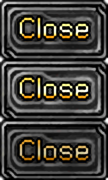
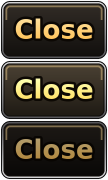
feat(ui-hd): in-game Texture quality option (Auto/Ultra/High/Standard), redrawn Close button

diff --git a/src/source/UI/NewUI/Options/NewUIOptionWindow.cpp b/src/source/UI/NewUI/Options/NewUIOptionWindow.cpp
@@ -7,6 +7,7 @@
 #include "UI/NewUI/NewUISystem.h"
 #include "Render/Textures/ZzzTexture.h"
 #include "Render/Renderer/GraphicsQuality.h"
+#include "Render/Textures/UiHdTextures.h"
 #include "Audio/DSPlaySound.h"
 #include "Data/GameConfig/GameConfig.h"
 #include "Data/GameConfig/GameConfigConstants.h"
@@ -127,6 +128,28 @@ static const wchar_t* const* GetLanguageLabels()
 // family value ([UI] Font); empty = the platform default (so the look is
 // unchanged). The curated entries are bundled in the client's ./fonts directory
 // (see Core/Platform/GdiText.cpp), so they resolve even without a system install.
+// Texture quality combo (config.ini [UI] HdTextures): which HD replacement set to load. The order is the order shown.
+static const struct { Render::UiHdTextures::Setting value; const wchar_t* label; } s_TextureQualityOptions[] = {
+    { Render::UiHdTextures::Setting::Auto,   L"Auto" },
+    { Render::UiHdTextures::Setting::Scale4, L"Ultra" },
+    { Render::UiHdTextures::Setting::Scale2, L"High" },
+    { Render::UiHdTextures::Setting::Off,    L"Standard" },
+};
+static const int s_NumTextureQualityOptions = sizeof(s_TextureQualityOptions) / sizeof(s_TextureQualityOptions[0]);
+
+static const wchar_t* const* GetTextureQualityLabels()
+{
+    static const wchar_t* labels[s_NumTextureQualityOptions] = {};
+    static bool initialized = false;
+    if (!initialized)
+    {
+        for (int i = 0; i < s_NumTextureQualityOptions; i++)
+            labels[i] = s_TextureQualityOptions[i].label;
+        initialized = true;
+    }
+    return labels;
+}
+
 namespace
 {
 struct FontOption
@@ -309,6 +332,9 @@ namespace
     constexpr int ANISO_LABEL_Y_LOCAL = 248;
     constexpr int ANISO_COMBO_Y_LOCAL = 261;
     constexpr int ANISO_COMBO_X_LOCAL = RENDER_ROW_COMBO_X_LOCAL;
+    constexpr int TEXQUALITY_LABEL_Y_LOCAL = 299;
+    constexpr int TEXQUALITY_COMBO_Y_LOCAL = 312;
+    constexpr int TEXQUALITY_COMBO_X_LOCAL = RENDER_ROW_COMBO_X_LOCAL;
 
     constexpr int WINDOW_WIDTH = 190;
     constexpr int WINDOW_HEIGHT = 419;
@@ -352,6 +378,7 @@ SEASON3B::CNewUIOptionWindow::CNewUIOptionWindow()
     m_iAntiAliasingIndex = FindCurrentAntiAliasingIndex();
     m_bTextureMipmaps = GameConfig::GetInstance().GetTextureMipmapsEnabled();
     m_iAnisotropyIndex = FindCurrentAnisotropyIndex();
+    m_iTextureQualityIndex = FindCurrentTextureQualityIndex();
     m_iCurrentPage = PAGE_GENERAL;
 }
 
@@ -376,6 +403,7 @@ bool SEASON3B::CNewUIOptionWindow::Create(CNewUIManager* pNewUIMng, int x, int y
     InitMaxFpsCombo();
     InitAntiAliasingCombo();
     InitAnisotropyCombo();
+    InitTextureQualityCombo();
     Show(false);
     return true;
 }
@@ -485,6 +513,20 @@ void SEASON3B::CNewUIOptionWindow::InitAnisotropyCombo()
         RENDER_ROW_COMBO_MAX_VISIBLE);
 }
 
+void SEASON3B::CNewUIOptionWindow::InitTextureQualityCombo()
+{
+    m_iTextureQualityIndex = FindCurrentTextureQualityIndex();
+    m_TextureQualityCombo.Setup(
+        m_Pos.x + TEXQUALITY_COMBO_X_LOCAL,
+        m_Pos.y + TEXQUALITY_COMBO_Y_LOCAL,
+        RENDER_ROW_COMBO_WIDTH,
+        RENDER_ROW_COMBO_HEIGHT,
+        GetTextureQualityLabels(),
+        s_NumTextureQualityOptions,
+        m_iTextureQualityIndex,
+        RENDER_ROW_COMBO_MAX_VISIBLE);
+}
+
 void SEASON3B::CNewUIOptionWindow::SetButtonInfo()
 {
     m_BtnClose.ChangeTextBackColor(RGBA(255, 255, 255, 0));
@@ -516,6 +558,7 @@ void SEASON3B::CNewUIOptionWindow::SetPos(int x, int y)
     m_MaxFpsCombo.SetPos(m_Pos.x + MAXFPS_COMBO_X_LOCAL, m_Pos.y + MAXFPS_COMBO_Y_LOCAL);
     m_AntiAliasingCombo.SetPos(m_Pos.x + AA_COMBO_X_LOCAL, m_Pos.y + AA_COMBO_Y_LOCAL);
     m_AnisotropyCombo.SetPos(m_Pos.x + ANISO_COMBO_X_LOCAL, m_Pos.y + ANISO_COMBO_Y_LOCAL);
+    m_TextureQualityCombo.SetPos(m_Pos.x + TEXQUALITY_COMBO_X_LOCAL, m_Pos.y + TEXQUALITY_COMBO_Y_LOCAL);
 }
 
 bool SEASON3B::CNewUIOptionWindow::UpdateMouseEvent()
@@ -554,6 +597,7 @@ bool SEASON3B::CNewUIOptionWindow::UpdateMouseEvent()
         { PAGE_GRAPHICS, &m_MaxFpsCombo,       &m_iMaxFpsIndex,       &CNewUIOptionWindow::ApplyMaxFps        },
         { PAGE_GRAPHICS, &m_AntiAliasingCombo, &m_iAntiAliasingIndex, &CNewUIOptionWindow::ApplyAntiAliasing  },
         { PAGE_GRAPHICS, &m_AnisotropyCombo,   &m_iAnisotropyIndex,   &CNewUIOptionWindow::ApplyAnisotropy    },
+        { PAGE_GRAPHICS, &m_TextureQualityCombo, &m_iTextureQualityIndex, &CNewUIOptionWindow::ApplyTextureQuality },
     };
     for (int pass = 0; pass < 2; ++pass)   // pass 0 = open combo (on top), pass 1 = closed
     {
@@ -835,6 +879,9 @@ void SEASON3B::CNewUIOptionWindow::OpenningProcess()
     m_iAnisotropyIndex = FindCurrentAnisotropyIndex();
     m_AnisotropyCombo.SetSelectedIndex(m_iAnisotropyIndex);
     m_AnisotropyCombo.Close();
+    m_iTextureQualityIndex = FindCurrentTextureQualityIndex();
+    m_TextureQualityCombo.SetSelectedIndex(m_iTextureQualityIndex);
+    m_TextureQualityCombo.Close();
 }
 
 void SEASON3B::CNewUIOptionWindow::ClosingProcess()
@@ -845,6 +892,7 @@ void SEASON3B::CNewUIOptionWindow::ClosingProcess()
     m_MaxFpsCombo.Close();
     m_AntiAliasingCombo.Close();
     m_AnisotropyCombo.Close();
+    m_TextureQualityCombo.Close();
 }
 
 void SEASON3B::CNewUIOptionWindow::LoadImages()
@@ -981,6 +1029,7 @@ void SEASON3B::CNewUIOptionWindow::RenderContents()
             { AA_LABEL_Y_LOCAL, I18N::Game::AntiAliasingRestart },
             { MIPMAPS_LABEL_Y_LOCAL, I18N::Game::MipmapsRestart },
             { ANISO_LABEL_Y_LOCAL, I18N::Game::AnisotropyRestart },
+            { TEXQUALITY_LABEL_Y_LOCAL, I18N::Game::TextureQualityRestart },
         };
         for (const Row& row : rows)
         {
@@ -1071,7 +1120,7 @@ void SEASON3B::CNewUIOptionWindow::RenderButtons()
                     m_Pos.y + MIPMAPS_CHECKBOX_Y_LOCAL, 15, 15,
                     0, m_bTextureMipmaps ? 0.f : 15.f);
 
-        CNewUIComboBox* combos[] = { &m_MaxFpsCombo, &m_AntiAliasingCombo, &m_AnisotropyCombo };
+        CNewUIComboBox* combos[] = { &m_MaxFpsCombo, &m_AntiAliasingCombo, &m_AnisotropyCombo, &m_TextureQualityCombo };
         for (auto* c : combos) if (!c->IsOpen()) c->Render();
         for (auto* c : combos) if (c->IsOpen()) c->Render();
     }
@@ -1354,6 +1403,30 @@ void SEASON3B::CNewUIOptionWindow::ApplyAnisotropy()
     // Restart required: anisotropy is applied once per texture, at upload
     // time in GlobalBitmap.cpp's UploadTextureSDLGpu, not something that can
     // be re-applied to already-uploaded textures live.
+}
+
+int SEASON3B::CNewUIOptionWindow::FindCurrentTextureQualityIndex()
+{
+    const auto current = Render::UiHdTextures::ParseSetting(GameConfig::GetInstance().GetHdTextures());
+    for (int i = 0; i < s_NumTextureQualityOptions; ++i)
+    {
+        if (s_TextureQualityOptions[i].value == current)
+            return i;
+    }
+    return 0;  // Auto
+}
+
+void SEASON3B::CNewUIOptionWindow::ApplyTextureQuality()
+{
+    if (m_iTextureQualityIndex < 0 || m_iTextureQualityIndex >= s_NumTextureQualityOptions)
+    {
+        return;
+    }
+
+    GameConfig::GetInstance().SetHdTextures(
+        Render::UiHdTextures::SettingConfigValue(s_TextureQualityOptions[m_iTextureQualityIndex].value));
+    GameConfig::GetInstance().Save();
+    // Restart required: a texture picks its HD or original file once, when it is loaded.
 }
 
 void SEASON3B::CNewUIOptionWindow::ApplyVSync()

diff --git a/tools/ui_hd/retext.py b/tools/ui_hd/retext.py
@@ -41,9 +41,10 @@ CAPTION_OUTLINE_COLOUR = (12, 8, 4)
 # Face gradients (top, bottom), one per state. Brightness 1.0 = normal.
 ORANGE_FACES = [((236, 156, 44), (160, 80, 16)), ((255, 182, 70), (196, 110, 28)), ((176, 100, 26), (112, 56, 10)),
                 ((92, 92, 96), (46, 46, 50))]
+DARK_FACES = [((52, 46, 40), (16, 14, 12)), ((78, 68, 54), (28, 24, 18)), ((30, 26, 22), (8, 7, 6))]
 GRAY_FACES = [((84, 84, 88), (36, 36, 40)), ((118, 118, 124), (58, 58, 64)), ((50, 50, 54), (22, 22, 26))]
-CAPTION_FACTORS = {"orange": (1.0, 1.0, 0.72, 0.38), "gray": (1.0, 1.0, 0.72)}
-PRESSED_STATES = {"orange": (2,), "gray": (2,)}
+CAPTION_FACTORS = {"orange": (1.0, 1.0, 0.72, 0.38), "dark3": (1.0, 1.15, 0.7), "gray": (1.0, 1.0, 0.72)}
+PRESSED_STATES = {"orange": (2,), "dark3": (2,), "gray": (2,)}
 
 SPECS = {
     "b_create.OZT": {"label": "Create", "kind": "orange"},
@@ -51,6 +52,8 @@ SPECS = {
     "b_delete.OZT": {"label": "Delete", "kind": "orange"},
     "server_menu_b_all.OZT": {"label": "Menu", "kind": "gray"},
     "server_credit_b_all.OZT": {"label": "Credit", "kind": "gray"},
+    # Three states, and drawn by the game at full cell size (options and message boxes), so no margin.
+    "newui_button_close.OZT": {"label": "Close", "kind": "dark3", "full": True},
 }
 
 
@@ -86,8 +89,8 @@ def ring_layer(size, pressed):
     return gradient_image(size, top, bottom, ring)
 
 
-def button_state(kind, state, face, pressed):
-    size = (BUTTON_WIDTH * SCALE, BUTTON_HEIGHT * SCALE)
+def button_state(kind, state, face, pressed, button_size=(BUTTON_WIDTH, BUTTON_HEIGHT)):
+    size = (button_size[0] * SCALE, button_size[1] * SCALE)
     image = Image.new("RGBA", size, (0, 0, 0, 0))
     composite(image, gradient_image(size, BLACK, BLACK, rounded_mask(size, OUTLINE_INSET, CORNER_RADIUS)))
     composite(image, ring_layer(size, pressed))
@@ -105,12 +108,12 @@ def button_state(kind, state, face, pressed):
     return image
 
 
-def fit_font(label):
-    size = int(CAPTION_HEIGHT * SCALE * 1.4)
+def fit_font(label, caption_width=CAPTION_WIDTH, caption_height=CAPTION_HEIGHT):
+    size = int(caption_height * SCALE * 1.4)
     while size > 8:
         font = ImageFont.truetype(FONT_PATH, size)
         left, top, right, bottom = font.getbbox(label)
-        if right - left <= CAPTION_WIDTH * SCALE and (bottom - top) <= CAPTION_HEIGHT * SCALE:
+        if right - left <= caption_width * SCALE and (bottom - top) <= caption_height * SCALE:
             return font
         size -= 1
     return ImageFont.truetype(FONT_PATH, 8)
@@ -128,8 +131,8 @@ def fit_font_to(label, width, height):
     return ImageFont.truetype(FONT_PATH, 8)
 
 
-def draw_caption(image, label, factor):
-    font = fit_font(label)
+def draw_caption(image, label, factor, caption_width=CAPTION_WIDTH, caption_height=CAPTION_HEIGHT):
+    font = fit_font(label, caption_width, caption_height)
     size = image.size
     left, top, right, bottom = font.getbbox(label)
     origin = ((size[0] - (right - left)) // 2 - left, (size[1] - (bottom - top)) // 2 - top - SCALE // 2)
@@ -145,15 +148,17 @@ def draw_caption(image, label, factor):
     composite(image, gradient_image(size, top_c, bottom_c, np.asarray(fill, np.float32)))
 
 
-def draw_button(kind, label):
-    faces = ORANGE_FACES if kind == "orange" else GRAY_FACES
+def draw_button(kind, label, full_size=False):
+    faces = {"gray": GRAY_FACES, "dark3": DARK_FACES}.get(kind, ORANGE_FACES)
     factors = CAPTION_FACTORS[kind]
+    button = (CELL_WIDTH, CELL_HEIGHT) if full_size else (BUTTON_WIDTH, BUTTON_HEIGHT)
+    caption = (CAPTION_WIDTH * 1.25, CAPTION_HEIGHT * 1.2) if full_size else (CAPTION_WIDTH, CAPTION_HEIGHT)
     cells = []
     for state, face in enumerate(faces):
-        cell = button_state(kind, state, face, state in PRESSED_STATES[kind])
-        draw_caption(cell, label, factors[state])
+        cell = button_state(kind, state, face, state in PRESSED_STATES[kind], button)
+        draw_caption(cell, label, factors[state], *caption)
         full = Image.new("RGBA", (CELL_WIDTH * SCALE, CELL_HEIGHT * SCALE), (0, 0, 0, 0))
-        full.alpha_composite(cell, ((CELL_WIDTH - BUTTON_WIDTH) * SCALE // 2, (CELL_HEIGHT - BUTTON_HEIGHT) * SCALE // 2))
+        full.alpha_composite(cell, ((CELL_WIDTH - button[0]) * SCALE // 2, (CELL_HEIGHT - button[1]) * SCALE // 2))
         cells.append(np.asarray(full))
     return np.concatenate(cells, axis=0)
 
@@ -163,4 +168,4 @@ def apply(name, master):
     spec = SPECS.get(name)
     if spec is None:
         return master
-    return draw_button(spec["kind"], spec["label"])
+    return draw_button(spec["kind"], spec["label"], spec.get("full", False))

diff --git a/src/source/UI/NewUI/Options/NewUIOptionWindow.h b/src/source/UI/NewUI/Options/NewUIOptionWindow.h
@@ -134,6 +134,7 @@ namespace SEASON3B
         int m_iAntiAliasingIndex;
         bool m_bTextureMipmaps;
         int m_iAnisotropyIndex;
+        int m_iTextureQualityIndex;
 
         std::vector<UI::Options::DisplayResolution> m_resolutions;
         std::vector<std::wstring> m_resolutionLabels;
@@ -149,6 +150,7 @@ namespace SEASON3B
         CNewUIComboBox m_MaxFpsCombo;
         CNewUIComboBox m_AntiAliasingCombo;
         CNewUIComboBox m_AnisotropyCombo;
+        CNewUIComboBox m_TextureQualityCombo;
 
         void ApplyResolution();
         int FindCurrentResolutionIndex();
@@ -175,6 +177,10 @@ namespace SEASON3B
         void ApplyAnisotropy();
         int FindCurrentAnisotropyIndex();
         void InitAnisotropyCombo();
+
+        void ApplyTextureQuality();
+        int FindCurrentTextureQualityIndex();
+        void InitTextureQualityCombo();
 
         void ApplyVSync();
     };

diff --git a/tests/render/test_ui_hd_textures.cpp b/tests/render/test_ui_hd_textures.cpp
@@ -37,6 +37,14 @@ TEST_CASE("HD setting parses off, auto and explicit scales [render][ui_hd]")
     CHECK(ParseSetting(L"banana") == Setting::Auto);
 }
 
+TEST_CASE("HD setting is written back to the value that parses to it [render][ui_hd]")
+{
+    for (const Setting setting : {Setting::Off, Setting::Auto, Setting::Scale2, Setting::Scale4})
+        CHECK(ParseSetting(SettingConfigValue(setting)) == setting);
+    CHECK(SettingConfigValue(Setting::Off) == L"off");
+    CHECK(SettingConfigValue(Setting::Auto) == L"auto");
+}
+
 TEST_CASE("HD setting selects the scales to try, best first [render][ui_hd]")
 {
     CHECK(CandidateScales(Setting::Off).empty());

diff --git a/src/source/Render/Textures/UiHdTextures.h b/src/source/Render/Textures/UiHdTextures.h
@@ -71,6 +71,23 @@ struct HdImage
     return Setting::Auto;
 }
 
+// The value stored in config.ini for a setting (the inverse of ParseSetting).
+[[nodiscard]] inline std::wstring SettingConfigValue(Setting setting)
+{
+    switch (setting)
+    {
+    case Setting::Off:
+        return L"off";
+    case Setting::Scale2:
+        return L"2";
+    case Setting::Scale4:
+        return L"4";
+    case Setting::Auto:
+        break;
+    }
+    return L"auto";
+}
+
 // Scales to try, best first. A missing file at one scale falls back to the next lower one.
 [[nodiscard]] inline std::vector<int> CandidateScales(Setting setting)
 {

diff --git a/src/source/Data/GameConfig/GameConfig.h b/src/source/Data/GameConfig/GameConfig.h
@@ -67,6 +67,7 @@ public:
     // UI font family name (GDI face name). Empty = platform default.
     std::wstring GetFontSelection() const { return m_fontSelection; }
     std::wstring GetHdTextures() const { return m_hdTextures; }
+    void SetHdTextures(const std::wstring& setting);
     void SetFontSelection(const std::wstring& font);
 
     // Chat commands - the favourites and the named templates of the command

diff --git a/src/source/Data/GameConfig/GameConfig.cpp b/src/source/Data/GameConfig/GameConfig.cpp
@@ -224,6 +224,11 @@ void GameConfig::SetTextureMipmapsEnabled(bool enabled)
     m_textureMipmaps = enabled;
 }
 
+void GameConfig::SetHdTextures(const std::wstring& setting)
+{
+    m_hdTextures = setting;
+}
+
 void GameConfig::SetAnisotropy(int level)
 {
     m_anisotropy = level;

diff --git a/docs/ui-hd-textures.md b/docs/ui-hd-textures.md
@@ -20,7 +20,8 @@ HdTextures=auto
 | `2` | Use only the 2x art. Lighter on memory. |
 | `off` | Always use the original textures (the classic look). |
 
-The setting is read at start-up. Restart the game after changing it. A missing HD file is never an error: that one
+The setting is read at start-up. You can also change it in game: Options, Graphics page, "Texture quality (restart)"
+(Auto, Ultra, High, Standard). Restart the game after changing it. A missing HD file is never an error: that one
 texture simply keeps its original look.
 
 HD art uses about four to sixteen times the texture memory of the original, so weaker machines can use `2` or `off`.
